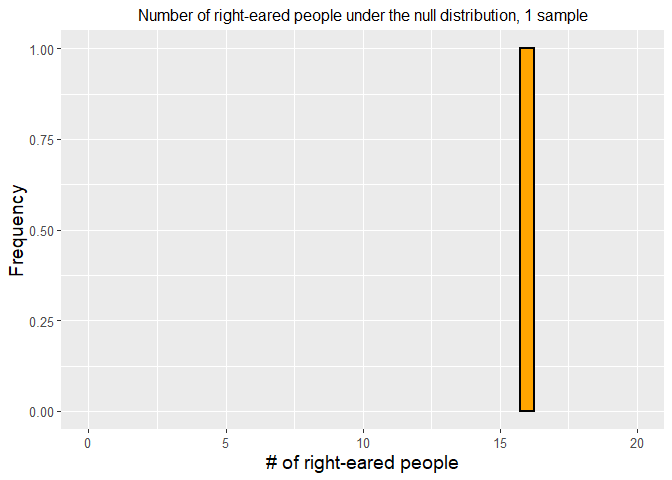
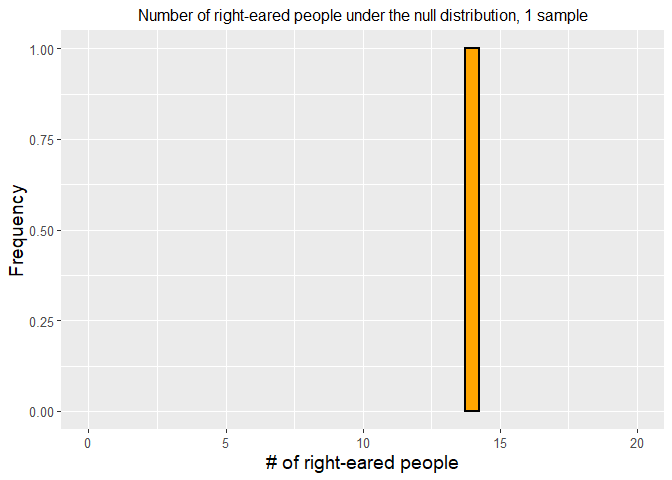
commit and push, 1141, 11/4/2022

Changed region(s): [[0.75, 0.0938, 0.8125, 0.875], [0.6875, 0.0938, 0.7188, 0.875]]

diff --git a/docs/ex6_continuous_tests_for_two_populations.html b/docs/ex6_continuous_tests_for_two_populations.html
@@ -345,7 +345,7 @@ div.tocify {
 
 <h1 class="title toc-ignore">6. Continuous tests 2 populations</h1>
 <h4 class="author">jjh</h4>
-<h4 class="date">Last compiled on 04 November, 2022 11:35</h4>
+<h4 class="date">Last compiled on 04 November, 2022 11:37</h4>
 
 </div>
 
@@ -603,9 +603,9 @@ fertilizer_wide &lt;- dcast(fert, ID ~ fertilizer, value.var = &quot;height&quot
 <pre><code>##                                                                       
 ##                             &quot;0.95&quot; &quot;% Percentile Confidence Interval&quot; 
 ##                                                                       
-##                           &quot;1.7275&quot;                 &quot;7.42493739791514&quot; 
+##                           &quot;1.7975&quot;                 &quot;7.47737479583027&quot; 
 ##                                                                       
-##                          &quot;p-value&quot;                           &quot;0.0011&quot;</code></pre>
+##                          &quot;p-value&quot;                            &quot;9e-04&quot;</code></pre>
 <pre class="r"><code>independence_test(drug ~ type, drug3.df)</code></pre>
 <pre><code>## 
 ##  Asymptotic General Independence Test
@@ -675,7 +675,7 @@ bootstrapjsg(meta_diff)</code></pre>
 <pre><code>## Warning in boot.ci(a, conf): bootstrap variances needed for studentized
 ## intervals</code></pre>
 <pre><code>##                                                                         
-##                  &quot;0.95&quot; &quot;% Confidence Interval&quot;     &quot;-18.3333333333333&quot; 
+##                  &quot;0.95&quot; &quot;% Confidence Interval&quot;     &quot;-18.2222222222222&quot; 
 ##                                                                         
 ##     &quot;-5.33333333333333&quot;               &quot;p-value&quot;                 &quot;1e-04&quot;</code></pre>
 </div>
@@ -740,9 +740,9 @@ bootstrapjsg(meta_diff)</code></pre>
 <pre><code>## Warning in boot.ci(a, conf): bootstrap variances needed for studentized
 ## intervals</code></pre>
 <pre><code>##                                                                         
-##                  &quot;0.95&quot; &quot;% Confidence Interval&quot;     &quot;-18.4444444444444&quot; 
+##                  &quot;0.95&quot; &quot;% Confidence Interval&quot;     &quot;-18.2222222222222&quot; 
 ##                                                                         
-##     &quot;-5.55555555555556&quot;               &quot;p-value&quot;                     &quot;0&quot;</code></pre>
+##     &quot;-5.44444444444444&quot;               &quot;p-value&quot;                     &quot;0&quot;</code></pre>
 </div>
 </div>
 <div

diff --git a/docs/ex3_introduction_to_hypothesis_testing_via_binomial_test.html b/docs/ex3_introduction_to_hypothesis_testing_via_binomial_test.html
@@ -346,7 +346,7 @@ div.tocify {
 <h1 class="title toc-ignore">3. Introduction to hypothesis testing via
 binomial tests</h1>
 <h4 class="author">jjh</h4>
-<h4 class="date">Last compiled on 04 November, 2022 11:35</h4>
+<h4 class="date">Last compiled on 04 November, 2022 11:37</h4>
 
 </div>
 
@@ -565,7 +565,7 @@ ggplot(sampling_experiment_df, aes(Right_Handed)) +
   guides(fill = F)</code></pre>
 <pre><code>## Warning: `guides(&lt;scale&gt; = FALSE)` is deprecated. Please use `guides(&lt;scale&gt; =
 ## &quot;none&quot;)` instead.</code></pre>
-<pre><code>## Warning: Removed 5 rows containing non-finite values (stat_count).</code></pre>
+<pre><code>## Warning: Removed 8 rows containing non-finite values (stat_count).</code></pre>
 <pre><code>## Warning: Removed 1 rows containing missing values (geom_bar).</code></pre>
 <p><img
 src="ex3_introduction_to_hypothesis_testing_via_binomial_test_files/figure-html/unnamed-chunk-10-1.png" /><!-- --></p>
@@ -623,7 +623,7 @@ src="ex3_introduction_to_hypothesis_testing_via_binomial_test_files/figure-html/
 #using our sample
 length(sampling_experiment[sampling_experiment &gt;= 14 | sampling_experiment &lt;= 4])/
   length(sampling_experiment)</code></pre>
-<pre><code>## [1] 0.345</code></pre>
+<pre><code>## [1] 0.3458</code></pre>
 <pre class="r"><code>#binomial test####
 binom.test(x = 19, n = 25, p = 0.5)</code></pre>
 <pre><code>## 

diff --git a/ex6_continuous_tests_for_two_populations.md b/ex6_continuous_tests_for_two_populations.md
@@ -1,7 +1,7 @@
 ---
 title: "6. Continuous tests 2 populations"
 author: "jjh"
-date: "Last compiled on 04 November, 2022 11:35"
+date: "Last compiled on 04 November, 2022 11:37"
 output:
   html_document:
     toc: true
@@ -387,9 +387,9 @@ bootstrapjsg(fertilizer_wide$new, fertilizer_wide$old)
 ##                                                                       
 ##                             "0.95" "% Percentile Confidence Interval" 
 ##                                                                       
-##                           "1.7275"                 "7.42493739791514" 
+##                           "1.7975"                 "7.47737479583027" 
 ##                                                                       
-##                          "p-value"                           "0.0011"
+##                          "p-value"                            "9e-04"
 ```
 
 
@@ -498,7 +498,7 @@ bootstrapjsg(meta_diff)
 
 ```
 ##                                                                         
-##                  "0.95" "% Confidence Interval"     "-18.3333333333333" 
+##                  "0.95" "% Confidence Interval"     "-18.2222222222222" 
 ##                                                                         
 ##     "-5.33333333333333"               "p-value"                 "1e-04"
 ```
@@ -599,9 +599,9 @@ bootstrapjsg(meta_diff)
 
 ```
 ##                                                                         
-##                  "0.95" "% Confidence Interval"     "-18.4444444444444" 
+##                  "0.95" "% Confidence Interval"     "-18.2222222222222" 
 ##                                                                         
-##     "-5.55555555555556"               "p-value"                     "0"
+##     "-5.44444444444444"               "p-value"                     "0"
 ```
 
 

diff --git a/ex3_introduction_to_hypothesis_testing_via_binomial_test.md b/ex3_introduction_to_hypothesis_testing_via_binomial_test.md
@@ -1,7 +1,7 @@
 ---
 title: "3. Introduction to hypothesis testing via binomial tests"
 author: "jjh"
-date: "Last compiled on 04 November, 2022 11:35"
+date: "Last compiled on 04 November, 2022 11:37"
 output:
   html_document:
     toc: true
@@ -279,7 +279,7 @@ ggplot(sampling_experiment_df, aes(Right_Handed)) +
 ```
 
 ```
-## Warning: Removed 5 rows containing non-finite values (stat_count).
+## Warning: Removed 8 rows containing non-finite values (stat_count).
 ```
 
 ```
@@ -396,7 +396,7 @@ length(sampling_experiment[sampling_experiment >= 14 | sampling_experiment <= 4]
 ```
 
 ```
-## [1] 0.345
+## [1] 0.3458
 ```
 
 ```r
